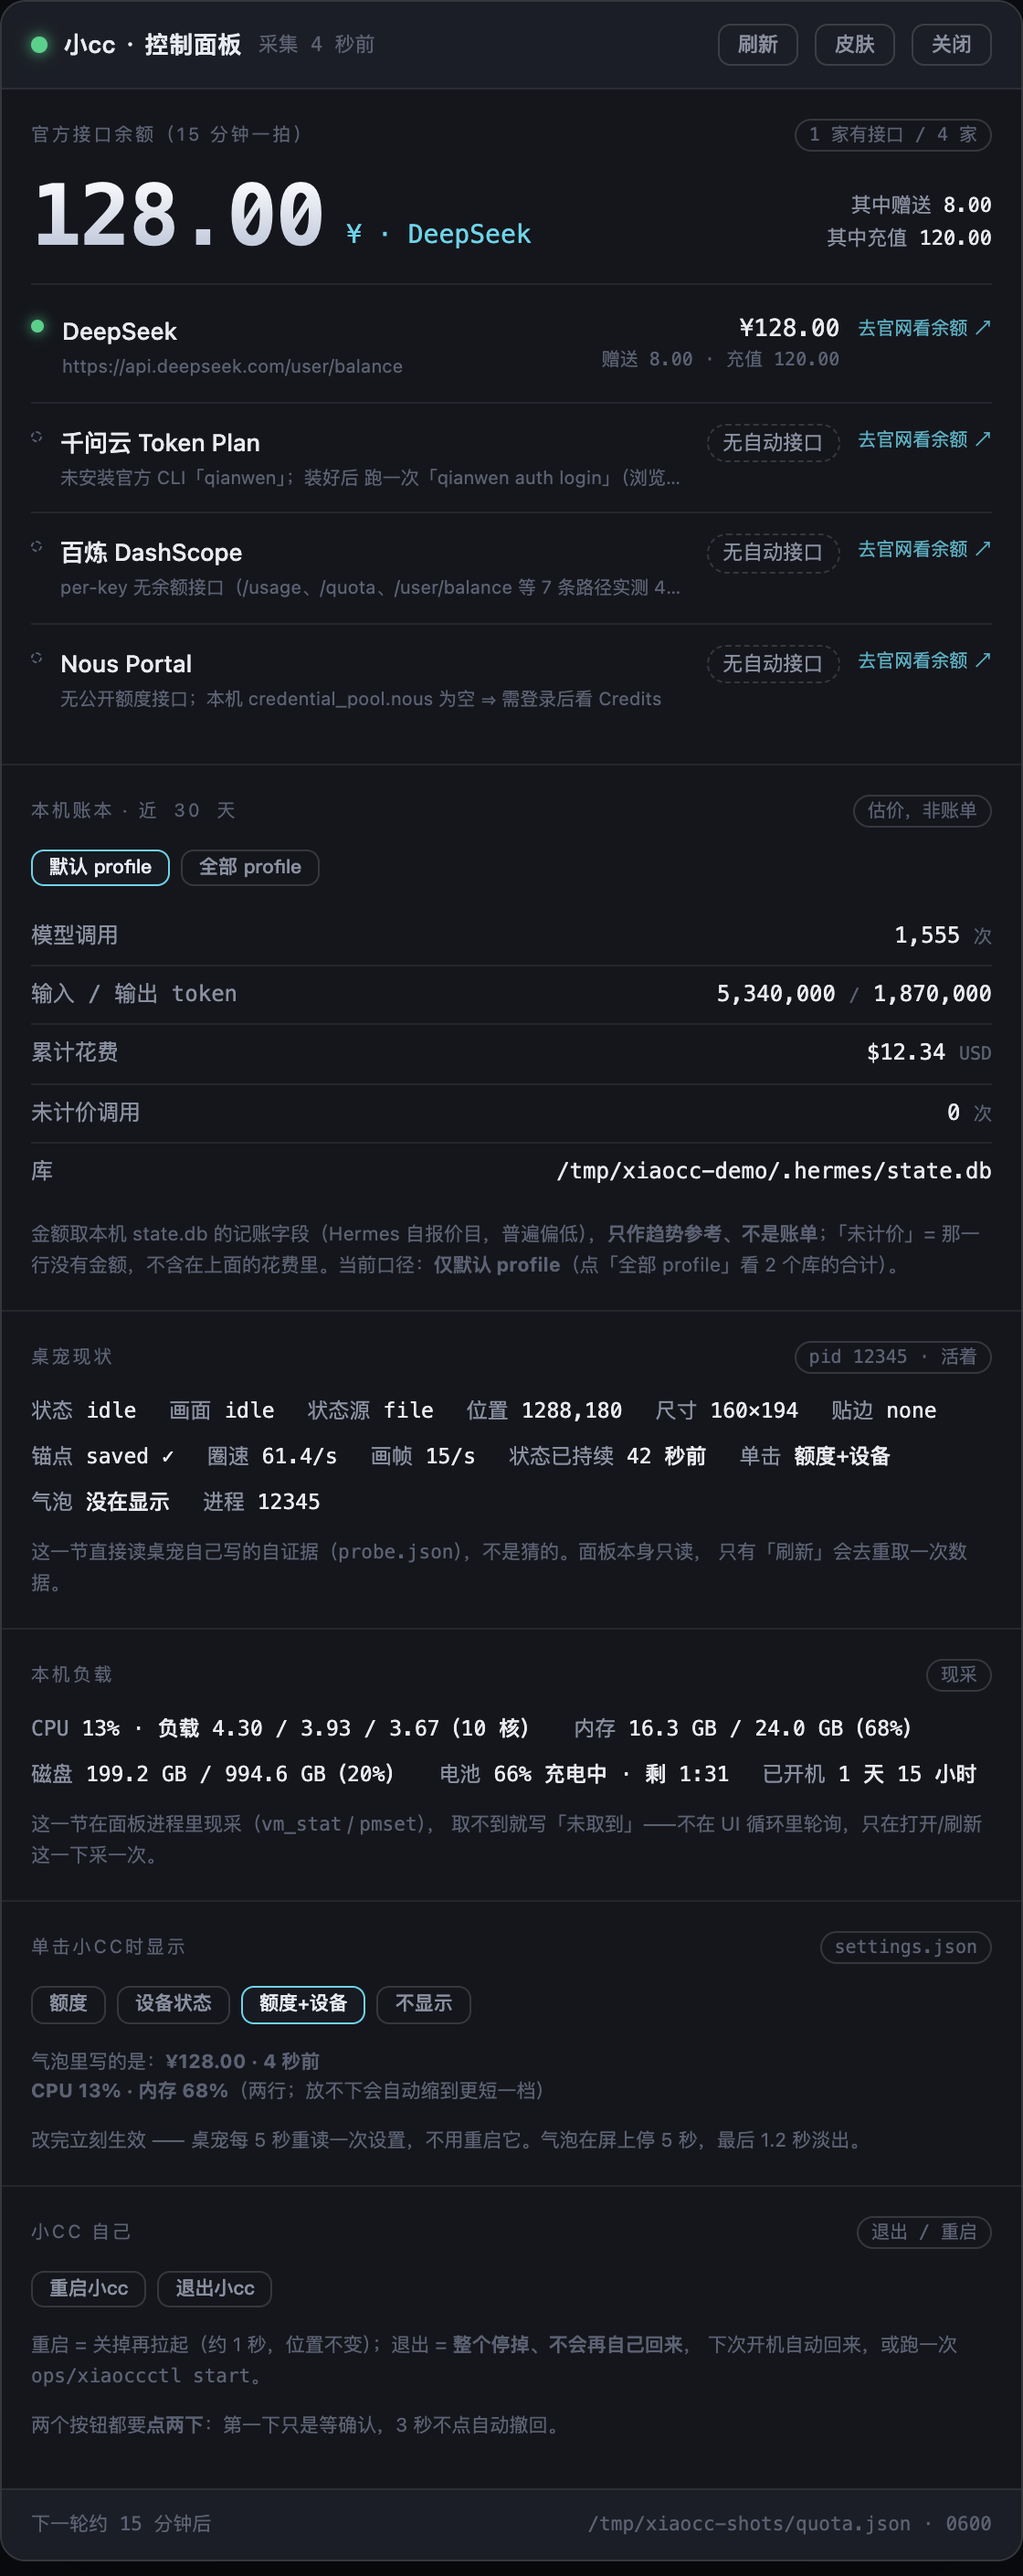
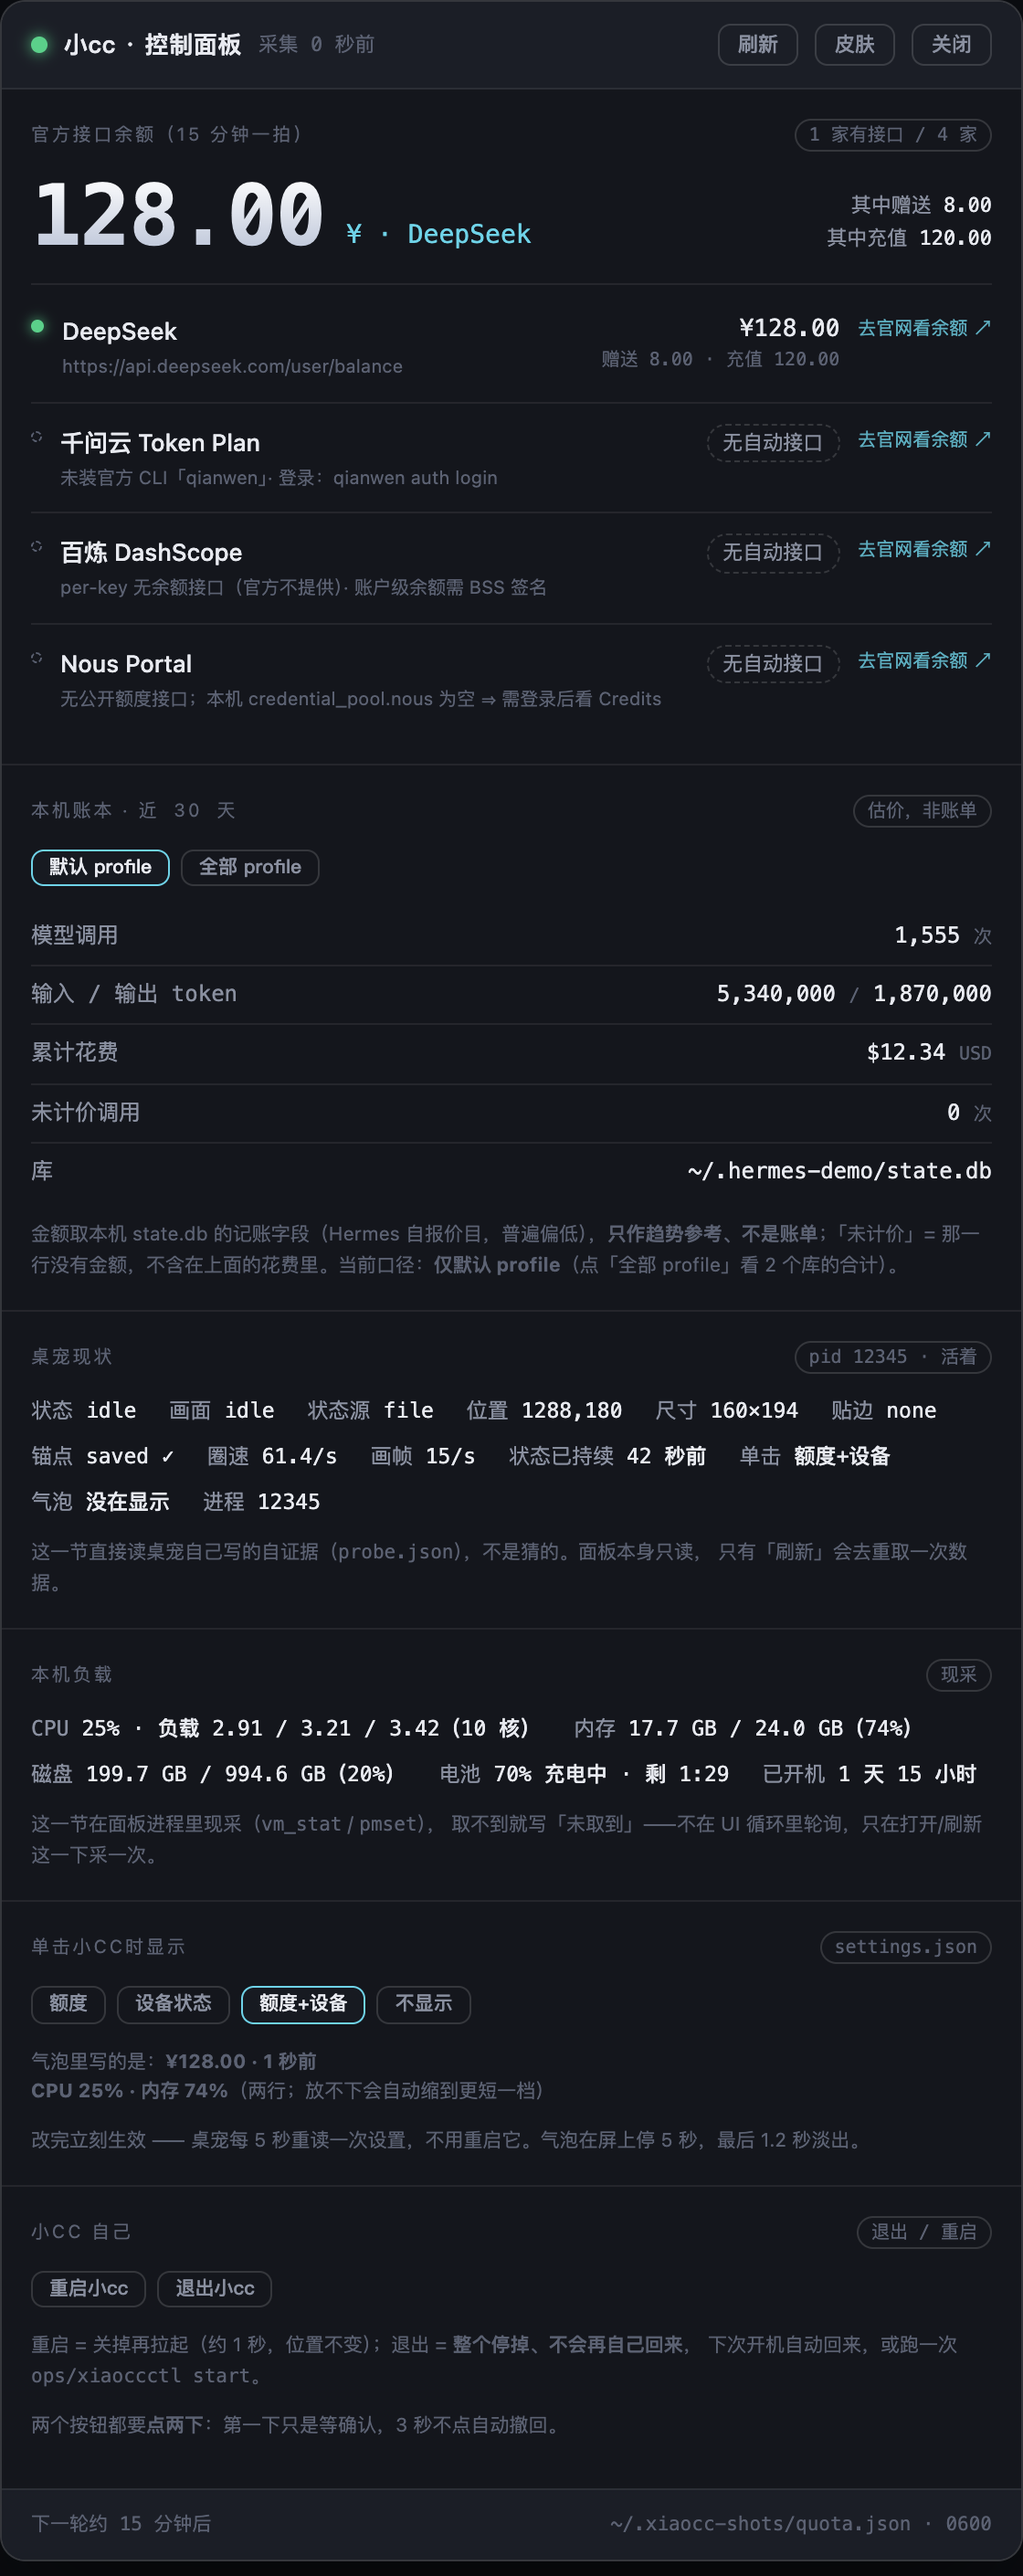
面板上那两行被截成半句的文案收短（用户可见真 bug）+ 依据搬进 docs/quota.md + 面板两张重拍
@writer 抓的两处**真用户会看到的**截断（不是拍照问题）：千问那条 68px 横向溢出被截成
「…（浏览…」；百炼那条 11px（落在浏览器与 WKWebView 字宽的不确定带里）。根子在文案形态：
那几行把「结论 + 动作 + 依据」挤在一行。按杠杆点收：

- `qianwen.LOGIN_HINT` **一处收短**（`qianwen auth login`）⇒ 三条 detail（未装/凭据被拒/未登录）
  同时受益；面板只放「一个动作」。
- 百炼那条只留结论（`per-key 无余额接口（官方不提供）· 账户级余额需 BSS 签名`）。
- **依据搬进新 `docs/quota.md`**：7 条候选路径实测 404、账户总额度≠百炼套餐余量、BSS AK/SK 签名、
  「浏览器批准一次即可」、以及三条口径（不补 0 / 陈旧 / 未计价 vs 金额未知、六库口径）。
  规则一句话：**面板 hint 只写结论 + 一个动作；依据进文档**——这样下一条细节不会再被挤破。

实测（浏览器跑完 JS 的 DOM，「只看横向、阈值 >2px」）：**横向溢出元素 []** —— 68px 与 11px 一起
消失，11px 那个不确定带不用再赌 WKWebView。一张测试跟着改口径：原断言 detail 里有诊断码
`AUTH_REQUIRED`，改成断言**语义**（「凭据被拒」）+ **动作在不在**（`qianwen auth login`）——
诊断码属于代码与文档，不属于用户可见字符串。

两张实拍重拍：替身**两个目录都挪到 `$HOME` 下**（`~/.hermes-demo` / `~/.xiaocc-shots`），
屏幕上现在是 `~/.hermes-demo/state.db`、`~/.xiaocc-shots/quota.json · 0600`，绝对路径 0 条、
用户名 0 处；`pixel_stats` 100% 不透明（不是空图）。回归：pytest **306**、ruff 干净。

diff --git a/src/xiaocc/quota/qianwen.py b/src/xiaocc/quota/qianwen.py
@@ -37,7 +37,9 @@ BINARY = "qianwen"
 CREDENTIAL_DIR = Path.home() / ".qianwen"
 CONSOLE_URL = "https://platform.qianwenai.com/"
 #: 这句会**原样上屏**（面板是静态 HTML，不跑 Markdown）⇒ 不许带反引号/星号，用「」。
-LOGIN_HINT = "跑一次「qianwen auth login」（浏览器批准一次即可）"
+#: 面板上只放「一个动作」，一行放得下 —— 宽度预算是真机量出来的（这条原来 68px 溢出被截断）。
+#: 「浏览器批准一次即可」这类说明、以及各家取不到数的依据，见 `docs/quota.md`。
+LOGIN_HINT = "qianwen auth login"
 
 #: **叶子命令**：``subscription`` 是命令组，光敲它会打印帮助并 exit 0（不是数据）
 SUBSCRIPTION_ARGS = ("subscription", "status", "--plan", "token", "--format", "json")
@@ -233,7 +235,7 @@ class QwenTokenPlanAdapter:
         except FileNotFoundError:
             return self._result(
                 STATE_UNKNOWN,
-                detail=f"未安装官方 CLI「{self._binary}」；装好后 {LOGIN_HINT}",
+                detail=f"未装官方 CLI「{self._binary}」· 登录：{LOGIN_HINT}",
             )
         except Exception as exc:  # noqa: BLE001 - 采集器不许抛
             return self._result(STATE_ERROR, detail=error_detail(exc, 120))
@@ -243,9 +245,9 @@ class QwenTokenPlanAdapter:
         if "AUTH_REQUIRED" in out or rc == 2:
             if self._logged_in():
                 return self._result(
-                    STATE_STALE, detail=f"凭据被拒（AUTH_REQUIRED）—— 重新登录：{LOGIN_HINT}"
+                    STATE_STALE, detail=f"凭据被拒 · 重新登录：{LOGIN_HINT}"
                 )
-            return self._result(STATE_UNKNOWN, detail=f"未登录：{LOGIN_HINT}")
+            return self._result(STATE_UNKNOWN, detail=f"未登录（{LOGIN_HINT}）")
         if rc != 0:
             return self._result(STATE_ERROR, detail=f"CLI 退出码 {rc}")
 

diff --git a/scripts/make_shot_fixtures.py b/scripts/make_shot_fixtures.py
@@ -81,7 +81,7 @@ DEMO_QUOTA = {
             "console": "https://bailian.console.aliyun.com/",
             "source": "",
             "fetched_at": "2026-09-30T00:00:00+08:00",
-            "detail": "未安装官方 CLI「qianwen」；装好后 跑一次「qianwen auth login」（浏览器批准一次即可）",
+            "detail": "未装官方 CLI「qianwen」· 登录：qianwen auth login",
         },
         {
             "id": "dashscope",
@@ -92,7 +92,7 @@ DEMO_QUOTA = {
             "console": "https://bailian.console.aliyun.com/",
             "source": "",
             "fetched_at": "2026-09-30T00:00:00+08:00",
-            "detail": "per-key 无余额接口（/usage、/quota、/user/balance 等 7 条路径实测 404）",
+            "detail": "per-key 无余额接口（官方不提供）· 账户级余额需 BSS 签名",
         },
         {
             "id": "nous-portal",
@@ -104,6 +104,7 @@ DEMO_QUOTA = {
             "source": "",
             "fetched_at": "2026-09-30T00:00:00+08:00",
             "detail": "无公开额度接口；本机 credential_pool.nous 为空 ⇒ 需登录后看 Credits",
+            # 备注：这条未溢出（实测横向 0px），保留原文
         },
     ],
 }

diff --git a/tests/test_quota.py b/tests/test_quota.py
@@ -402,7 +402,10 @@ def test_qwen_auth_required_is_stale_when_credentials_exist(tmp_path: Path):
     quota = adapter.fetch(QuotaContext(env={}, state_dbs=[]))
     assert quota.state == "stale"
     assert quota.items == []  # 陈旧也不许编数
-    assert "AUTH_REQUIRED" in (quota.detail or "")
+    # 面板那行只放「结论 + 一个动作」：诊断码 `AUTH_REQUIRED` 归代码/文档，不进用户可见字符串
+    # （实测这条原来横向溢出 68px、在真机上被截成半句）。但"能分清是凭据被拒、不是未登录"要保住。
+    assert "凭据被拒" in (quota.detail or "")
+    assert "qianwen auth login" in (quota.detail or "")  # 动作必须在，不然用户不知道怎么修
 
 
 def test_qwen_never_logged_in_is_unknown(tmp_path: Path):

diff --git a/src/xiaocc/quota/static.py b/src/xiaocc/quota/static.py
@@ -46,8 +46,9 @@ def default_consoles() -> list[ConsoleOnlyAdapter]:
             "dashscope",
             "百炼 DashScope",
             "https://bailian.console.aliyun.com/",
-            "per-key 无余额接口（/usage、/quota、/user/balance 等 7 条路径实测 404）；"
-            "账户级余额需 BSS AK/SK 签名，且账户总额度≠百炼套餐余量",
+            # 面板一行放不下：依据（7 条候选路径实测 404、账户级余额要 BSS 签名、总额度≠套餐余量）
+            # 都在 docs/quota.md，这里只留结论。
+            "per-key 无余额接口（官方不提供）· 账户级余额需 BSS 签名",
         ),
         ConsoleOnlyAdapter(
             "nous",

diff --git a/docs/quota.md b/docs/quota.md
@@ -1,0 +1,33 @@
+# 额度（quota）数据来源与口径
+
+面板顶上那几行余额从哪来、为什么有的家只能写「无自动接口」，依据都在这页。
+面板上的 `hint`/`detail` 只写**结论 + 一个动作**（宽度只有一行的预算），
+完整的取数依据、探测过程和口径规矩放这里。
+
+## 一家一家说
+
+| 服务 | 取数路径 | 实测结论 |
+| --- | --- | --- |
+| **DeepSeek** | `GET https://api.deepseek.com/user/balance`（官方余额接口，key 走 `DEEPSEEK_API_KEY`） | 唯一一家有真余额接口的：可用余额、其中赠送、其中充值三项都是真数 |
+| **千问云 Token Plan** | 官方 CLI `qianwen`（本机未安装时无法取数） | 装好后跑一次 `qianwen auth login`，浏览器批准一次即可；之后由 CLI 输出额度 |
+| **百炼 DashScope** | 无 | **per-key 无余额接口**：`/usage`、`/quota`、`/user/balance` 等 7 条候选路径实测全部 404。账户级余额要 BSS AK/SK 签名才能查，而且**账户总额度 ≠ 百炼套餐余量**（两个口径，取到也不是面板想显示的那个数） |
+| **Nous Portal** | 无 | 没有公开额度接口；本机 `credential_pool.nous` 为空 ⇒ 需登录后在控制台看 Credits |
+
+所以面板上「1 家有接口 / 4 家」这个比例是**事实**，不是没做：其余几家官方不提供机器可读的额度。
+
+## 口径（三条，都是真机上量出来才定的）
+
+1. **取不到就写「未知」，绝不补 0** —— 把「不知道」画成 `¥0.00`，和把额度画错一样是假数。
+2. **陈旧要区分开**：上次拿到了、这次没刷新 ⇒ `stale`（页面上写「数据陈旧 · N 分钟未更新」），
+   不是「未知」，也不是新的数。
+3. **「未计价的行」和「金额未知的模型」是两件事**：成本 = 全部行 `estimated_cost_usd` 求和；
+   「未计价」只算既没有金额、状态也不可信的行。只读默认库会漏掉约 41%，所以「本机账本」一节
+   分「默认 profile」与「全部 profile（N 个库）」两个口径，库里数量由磁盘上的
+   `profiles/*/state.db` 决定（不写死名单）。
+
+## 面板那一行是怎么排的
+
+`hint`/`detail` 的宽度预算只有一行：**只写结论 + 一个动作**。
+例：「未装官方 CLI「qianwen」· 登录：`qianwen auth login`」。
+「为什么取不到」的论证（路径清单、404 计数、签名要求）属于本页，不属于面板 —— 那几行被截断过
+（实测横向溢出 68px / 11px），收文案的同时把依据搬到这里，才不会再被下一条细节挤破。
